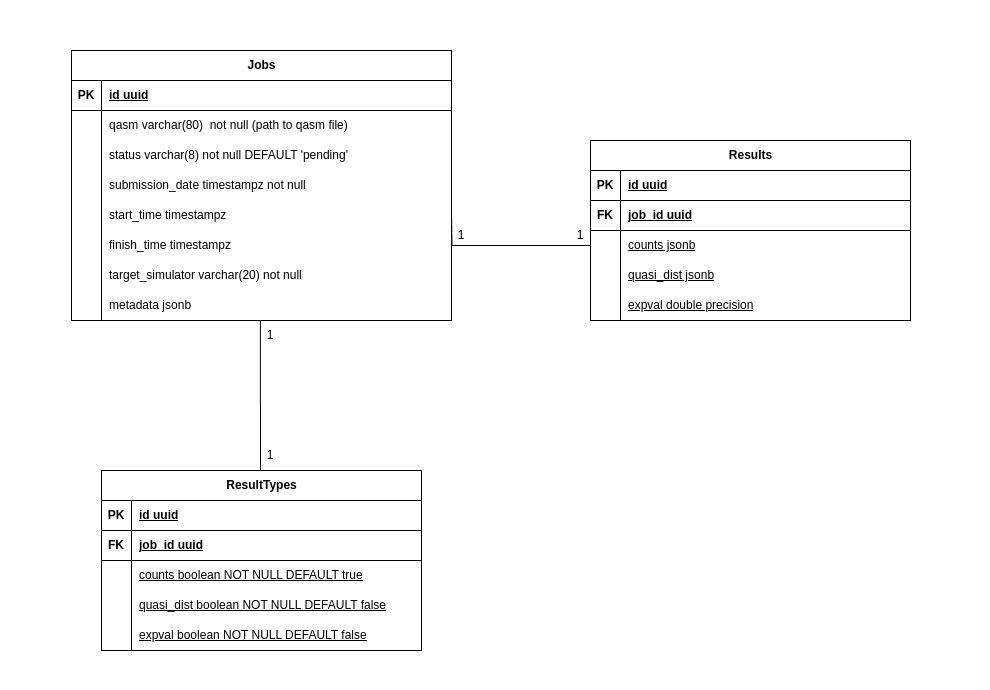
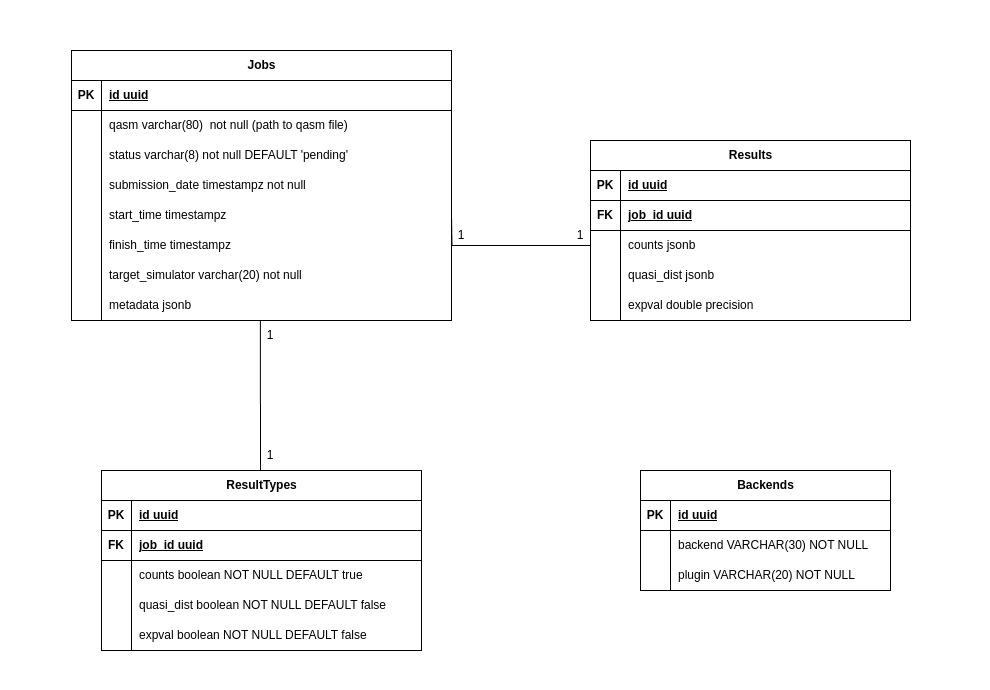
setup database for plugins

Changed region(s): [[0.6364, 0.7304, 0.8788, 0.7913], [0.6667, 0.8217, 0.8485, 0.8522], [0.7273, 0.7, 0.8182, 0.7304]]

diff --git a/server/worker/worker.py b/server/worker/worker.py
@@ -5,7 +5,7 @@ from utils.plugin import Plugin
 
 def callback(ch, method, body,db):
     try:
-        
+
         results_handler = ResultsHandler()
 
         job_id = body.decode()
@@ -15,12 +15,15 @@ def callback(ch, method, body,db):
         
         result_types = data["selected_result_types"]
         qasm_file = data["qasm"]
+        target_backend = data["target_simulator"]
 
         db.update_job_status('running', job_id)
         db.update_job_start_time_to_now(job_id)
 
+
+        plugin_name = db.get_plugin(target_backend)
         # get plugin (be aware that once the plugin name can be passed by the user, he may try to bypass and run arbitrary code)
-        plugin = Plugin()
+        plugin = Plugin(plugin_name)
 
         for result_type, active in result_types.items():
             if(not active):

diff --git a/server/worker/utils/plugin.py b/server/worker/utils/plugin.py
@@ -1,8 +1,8 @@
-from .types import Results
+from .types import Results, Metadata, Backend, QasmFilePath, ResultType
 
 class Plugin:
     def __init__(self, name:str):
-        self._name = name
+        self._plugin = __import__(name)
 
-    def run(self, qasm_file:str, result_type:str) -> Results:
-        pass
+    def run(self, target_backend: Backend, qasm_file:QasmFilePath, metdata: Metadata, result_type:ResultType) -> Results:
+        return self._plugin.execute(target_backend, qasm_file, metadata, result_type)

diff --git a/server/worker/utils/db.py b/server/worker/utils/db.py
@@ -81,3 +81,7 @@ class DB:
         """
         self._cursor.close()
         self._connection.close()
+
+    def get_plugin(self, backend:str) -> str:
+        self._cursor.execute("SELECT plugin FROM backends WHERE backend=%s", (backend,))
+        return self._cursor.fetchone()

diff --git a/server/worker/utils/types.py b/server/worker/utils/types.py
@@ -1,3 +1,7 @@
-from typing import Dict
+from typing import Dict, Any
 
-Results = Dict|float
+Backend = str
+Results = Dict[int | str, float] | float
+Metadata = Dict[Any, Any]
+ResultType = str
+QasmFilePath = str
